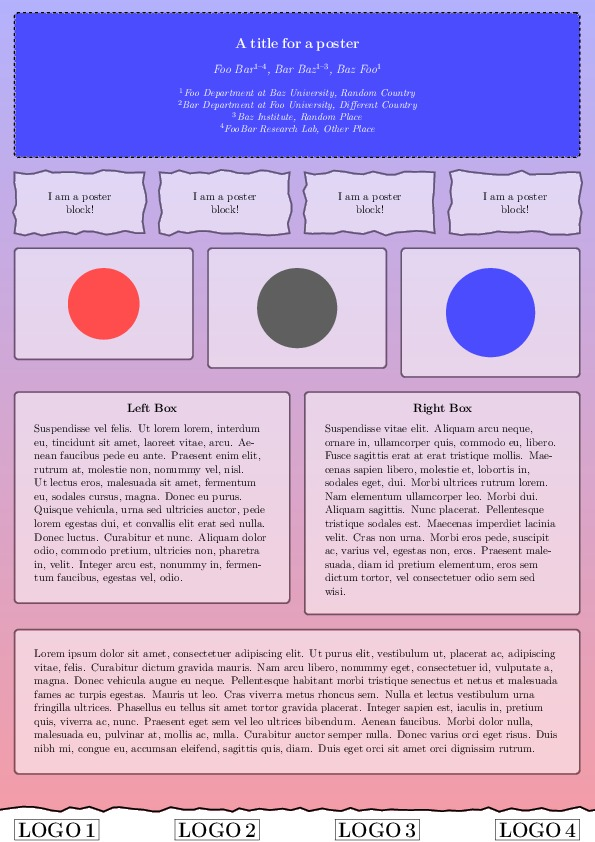
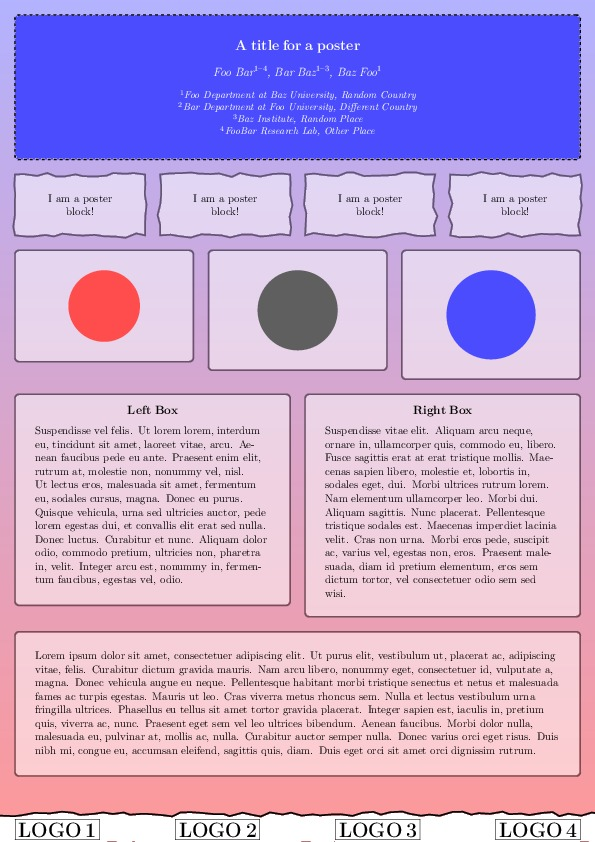
updated README.md, example poster file, and image of example

diff --git a/poster.tex b/poster.tex
@@ -64,7 +64,7 @@
     ultra thick,
     decoration=random steps,
     decorate,
-    inner sep=10
+    inner sep=5
   }
 }
 
@@ -73,7 +73,7 @@
 % tweak layout
 % increase width of poster
 \setlength{\textwidth}{\paperwidth - 30pt}
-\settopmargin{10}
+\settopmargin{15}
 \setblockpadding{20}
 \setblockspacing{15}
 \shadebackground{red!40}{blue!30}

diff --git a/README.md b/README.md
@@ -197,7 +197,7 @@ Resulting poster:
         ultra thick,
         decoration=random steps,
         decorate,
-        inner sep=10
+        inner sep=5
       }
     }
 
@@ -206,7 +206,7 @@ Resulting poster:
     % tweak layout
     % increase width of poster
     \setlength{\textwidth}{\paperwidth - 30pt}
-    \settopmargin{10}
+    \settopmargin{15}
     \setblockpadding{20}
     \setblockspacing{15}
     \shadebackground{red!40}{blue!30}
